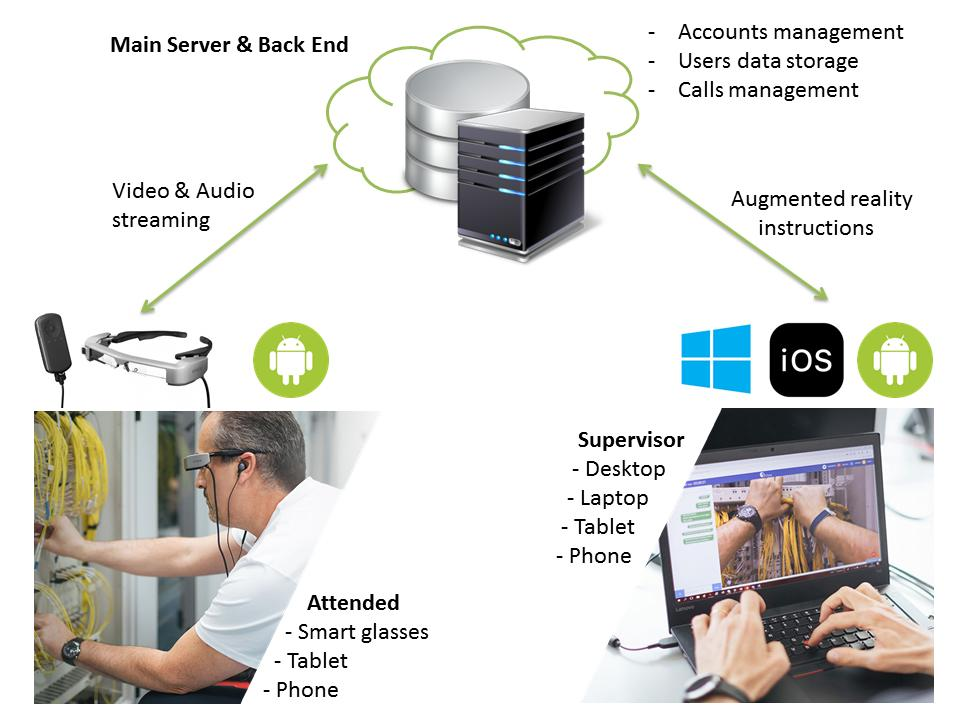
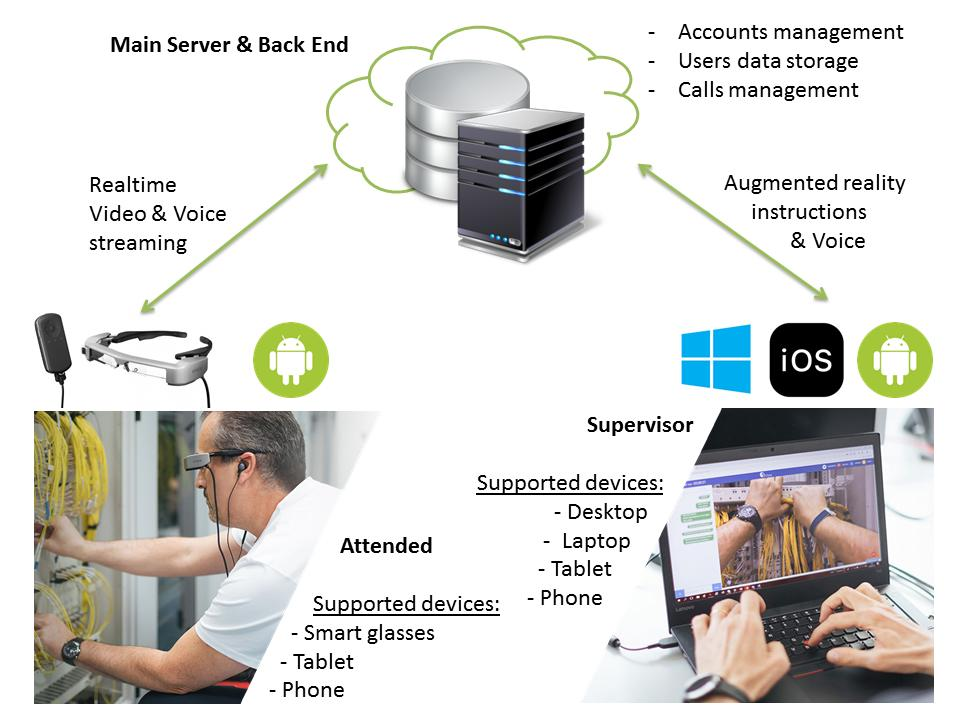
.

diff --git a/works/ar-maintenance.html b/works/ar-maintenance.html
@@ -64,33 +64,43 @@
 			<div id="main">
 					
 					<section>
-						<h2>Remote Assistance with smart glasses & augmented reality instructions</h2>
-						Execution date: 2019
+						<h2>Industrial machine maintenance with smart glasses & AR instructions</h2>
+						Execution date: 2017
 					</section>
 
 				<!-- Works -->
 					<section id="Works">
 						<div class="row">
 							<article class="6u 12u$(xsmall) work-item">
-								<a href="../images/works/remote-assistance/full/001.jpg" class="image fit thumb">Remote Assistance Concept<img src="../images/works/remote-assistance/thumbs/001.jpg" alt="" /></a>
+								<a href="../images/works/ar-maintenance/full/000.jpg" class="image fit thumb">Operator doing maintenance with AR<img src="../images/works/ar-maintenance/thumbs/000.jpg" alt="" /></a>
 							</article>
 							<article class="6u 12u$(xsmall) work-item">
-								<a href="../images/works/remote-assistance/full/002.jpg" class="image fit thumb">System Architecture<img src="../images/works/remote-assistance/thumbs/002.jpg" alt="" /></a>
+								<a href="../images/works/ar-maintenance/full/001.jpg" class="image fit thumb">Machine to maintain<img src="../images/works/ar-maintenance/thumbs/001.jpg" alt="" /></a>
+							</article>
+						</div>
+					</section>
+					<section id="Works">
+						<h2>Operator views for maintenance execution end data logging</h2>
+						<div class="row">
+							<article class="6u 12u$(xsmall) work-item">
+								<a href="../images/works/ar-maintenance/full/002.jpg" class="image fit thumb">AR instructions & actions<img src="../images/works/ar-maintenance/thumbs/002.jpg" alt="" /></a>
 							</article>
 							<article class="6u 12u$(xsmall) work-item">
-								<a href="../images/works/remote-assistance/full/003.jpg" class="image fit thumb">Epson BT-350 ® Smart glasses<img src="../images/works/remote-assistance/thumbs/003.jpg" alt="" /></a>
+								<a href="../images/works/ar-maintenance/full/003.jpg" class="image fit thumb">AR with video explanation of task<img src="../images/works/ar-maintenance/thumbs/003.jpg" alt="" /></a>
 							</article>
 							<article class="6u 12u$(xsmall) work-item">
-								<a href="../images/works/remote-assistance/full/004.jpg" class="image fit thumb">User view on smart glasses<img src="../images/works/remote-assistance/thumbs/004.jpg" alt="" /></a>
+								<a href="../images/works/ar-maintenance/full/004.jpg" class="image fit thumb"><img src="../images/works/ar-maintenance/thumbs/004.jpg" alt="" /></a>
+							</article>
+						</div>
+					</section>
+					<section id="Works">
+						<h2>Supervisor views of the back-end for maintenance control & checking</h2>
+						<div class="row">
+							<article class="6u 12u$(xsmall) work-item">
+								<a href="../images/works/ar-maintenance/full/005.jpg" class="image fit thumb"><img src="../images/works/ar-maintenance/thumbs/005.jpg" alt="" /></a>
 							</article>
 							<article class="6u 12u$(xsmall) work-item">
-								<a href="../images/works/remote-assistance/full/005.jpg" class="image fit thumb">Supervisor view on desktop<img src="../images/works/remote-assistance/thumbs/005.jpg" alt="" /></a>
-							</article>
-							<article class="6u 12u$(xsmall) work-item">
-								<a href="../images/works/remote-assistance/full/006.jpg" class="image fit thumb">Supervisor view on phone<img src="../images/works/remote-assistance/thumbs/006.jpg" alt="" /></a>
-							</article>
-							<article class="6u 12u$(xsmall) work-item">
-								<a href="../images/works/remote-assistance/full/007.jpg" class="image fit thumb">Supervisor view on tablet<img src="../images/works/remote-assistance/thumbs/007.jpg" alt="" /></a>
+								<a href="../images/works/ar-maintenance/full/006.jpg" class="image fit thumb"><img src="../images/works/ar-maintenance/thumbs/006.jpg" alt="" /></a>
 							</article>
 						</div>
 					</section>

diff --git a/works/enc-gest.html b/works/enc-gest.html
@@ -77,6 +77,11 @@
 							<article class="6u 12u$(xsmall) work-item">
 								<a href="../images/works/enc-gest/full/002.jpg" class="image fit thumb"><img src="../images/works/enc-gest/thumbs/002.jpg" alt="" /></a>
 							</article>
+						</div>
+					</section>
+					<section id="Works">
+						<h2>Products management</h2>
+						<div class="row">
 							<article class="6u 12u$(xsmall) work-item">
 								<a href="../images/works/enc-gest/full/003.jpg" class="image fit thumb"><img src="../images/works/enc-gest/thumbs/003.jpg" alt="" /></a>
 							</article>
@@ -92,6 +97,11 @@
 							<article class="6u 12u$(xsmall) work-item">
 								<a href="../images/works/enc-gest/full/007.jpg" class="image fit thumb"><img src="../images/works/enc-gest/thumbs/007.jpg" alt="" /></a>
 							</article>
+						</div>
+					</section>
+					<section id="Works">
+						<h2>Clients management</h2>
+						<div class="row">
 							<article class="6u 12u$(xsmall) work-item">
 								<a href="../images/works/enc-gest/full/008.jpg" class="image fit thumb"><img src="../images/works/enc-gest/thumbs/008.jpg" alt="" /></a>
 							</article>
@@ -104,6 +114,11 @@
 							<article class="6u 12u$(xsmall) work-item">
 								<a href="../images/works/enc-gest/full/011.jpg" class="image fit thumb"><img src="../images/works/enc-gest/thumbs/011.jpg" alt="" /></a>
 							</article>
+						</div>
+					</section>
+					<section id="Works">
+						<h2>Orders management</h2>
+						<div class="row">
 							<article class="6u 12u$(xsmall) work-item">
 								<a href="../images/works/enc-gest/full/012.jpg" class="image fit thumb"><img src="../images/works/enc-gest/thumbs/012.jpg" alt="" /></a>
 							</article>

diff --git a/works/vr-meeting.html b/works/vr-meeting.html
@@ -65,6 +65,12 @@
 					
 					<section>
 						<h2>Meeting & Conferencing in VR</h2>
+						Supported devices:<br>
+						- VR headsets for desktops<br>
+						- VR headsets for mobile phones<br>
+						- Desktop & Laptop<br>
+						- Tablet & Phone<br>
+						<br>
 						Execution date: 2018
 					</section>
 
@@ -86,6 +92,11 @@
 							<article class="6u 12u$(xsmall) work-item">
 								<a href="../images/works/vr-meeting/full/005.jpg" class="image fit thumb"><img src="../images/works/vr-meeting/thumbs/005.jpg" alt="" /></a>
 							</article>
+						</div>
+					</section>
+					<section id="Works">
+						<h2>First person views</h2>
+						<div class="row">
 							<article class="6u 12u$(xsmall) work-item">
 								<a href="../images/works/vr-meeting/full/006.jpg" class="image fit thumb"><img src="../images/works/vr-meeting/thumbs/006.jpg" alt="" /></a>
 							</article>
@@ -98,6 +109,11 @@
 							<article class="6u 12u$(xsmall) work-item">
 								<a href="../images/works/vr-meeting/full/009.jpg" class="image fit thumb"><img src="../images/works/vr-meeting/thumbs/009.jpg" alt="" /></a>
 							</article>
+						</div>
+					</section>
+					<section id="Works">
+						<h2>Documents & information visualization</h2>
+						<div class="row">
 							<article class="6u 12u$(xsmall) work-item">
 								<a href="../images/works/vr-meeting/full/010.jpg" class="image fit thumb"><img src="../images/works/vr-meeting/thumbs/010.jpg" alt="" /></a>
 							</article>

diff --git a/works.html b/works.html
@@ -139,6 +139,15 @@
 								<p>- Video & Audio streaming</p>
 								<p>- Back End deployment</p>
 							</article>
+							<article class="6u 12u$(xsmall) work-item">
+								<a href="works/ar-maintenance.html" class="image fit thumb">Industrial machine maintenance<img src="images/works/ar-maintenance/thumbs/000.jpg" alt="" /></a>
+								<h4>Industrial machine maintenance<br>with AR smart glasses</h4>
+								<p>- AR implementation</p>
+								<p>- Port to Epson Moverio series</p>
+								<p>- Network implementation</p>
+								<p>- Database definition</p>
+								<p>- Back End deployment</p>
+							</article>
 							<article class="6u$ 12u$(xsmall) work-item">
 								<a href="works/ar-pong-net.html" class="image fit thumb">AR Game<img src="images/works/ar-pong-net/thumbs/001.jpg" alt="" /></a>
 								<h4>Augmented Reality Multiplayer Game: <br> AR Pong Net</h4>
